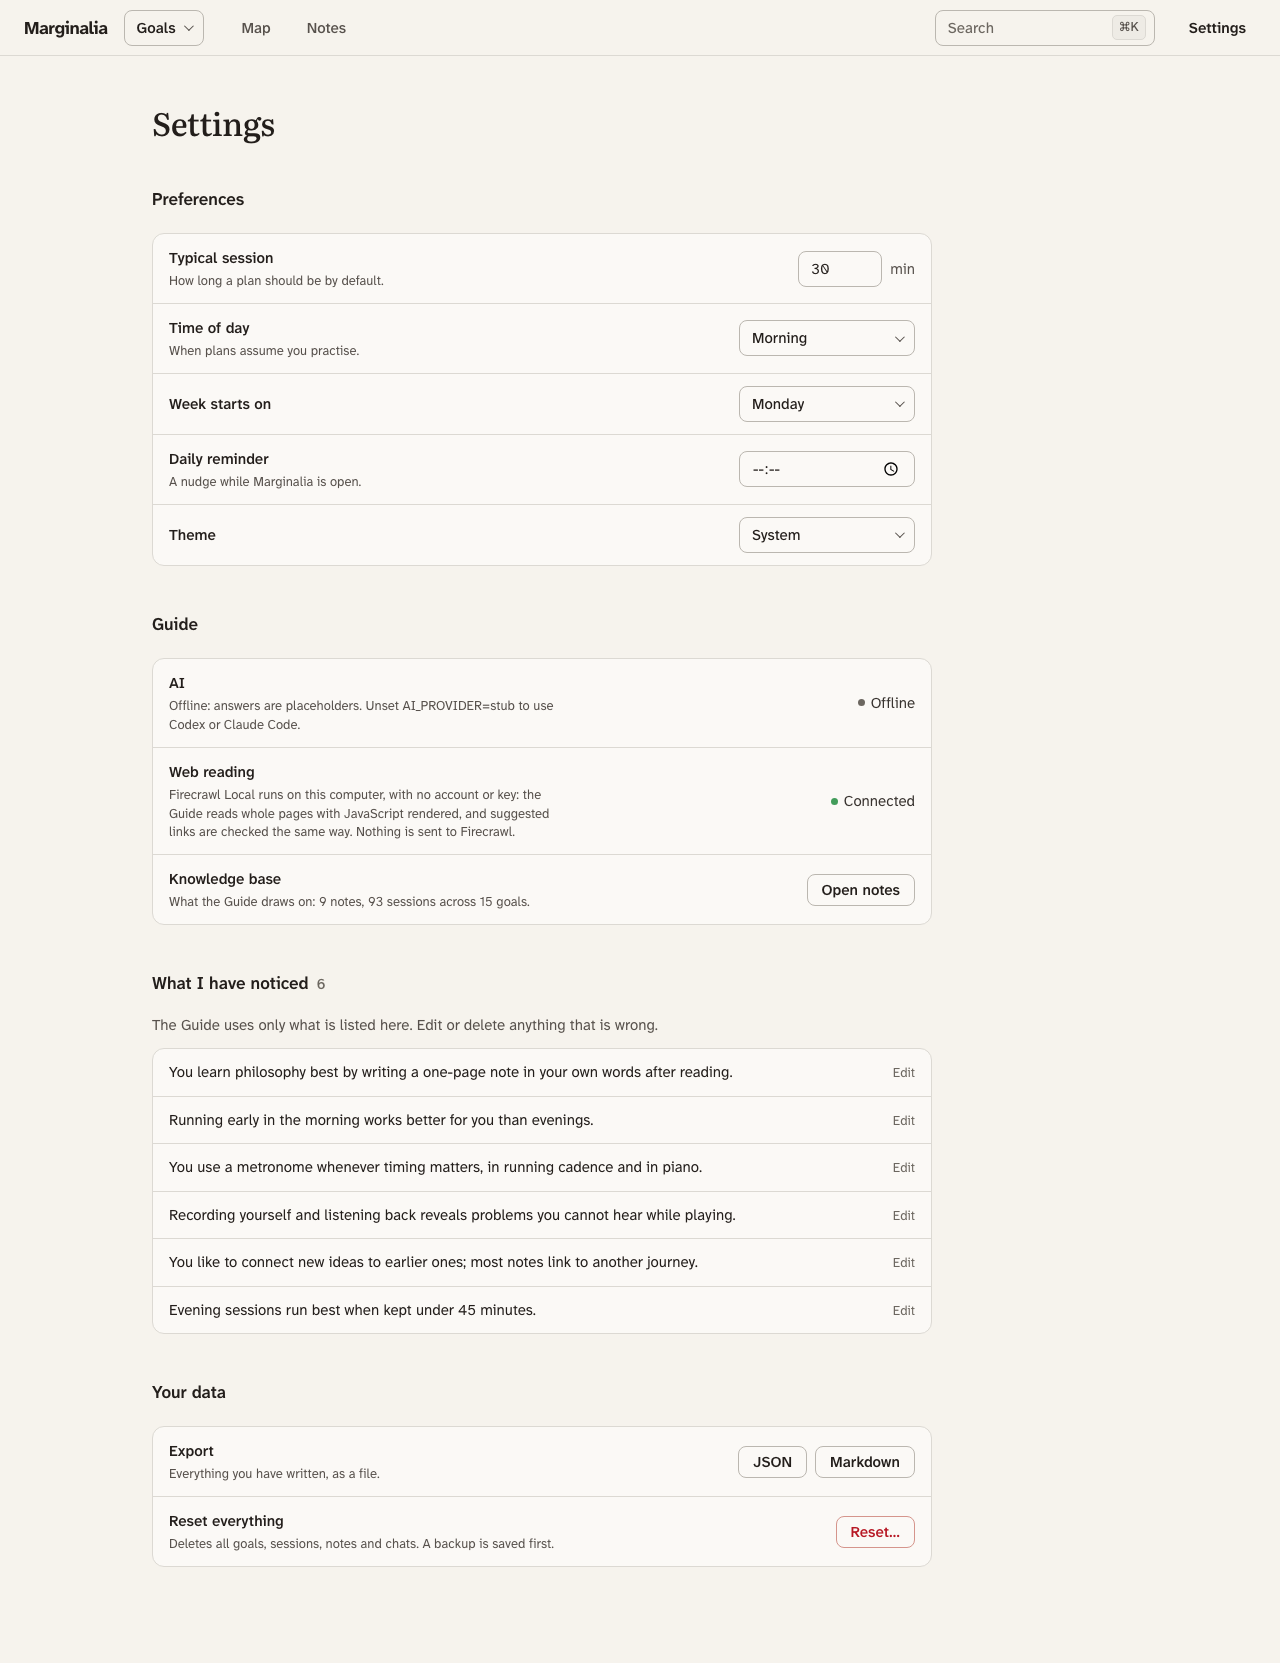
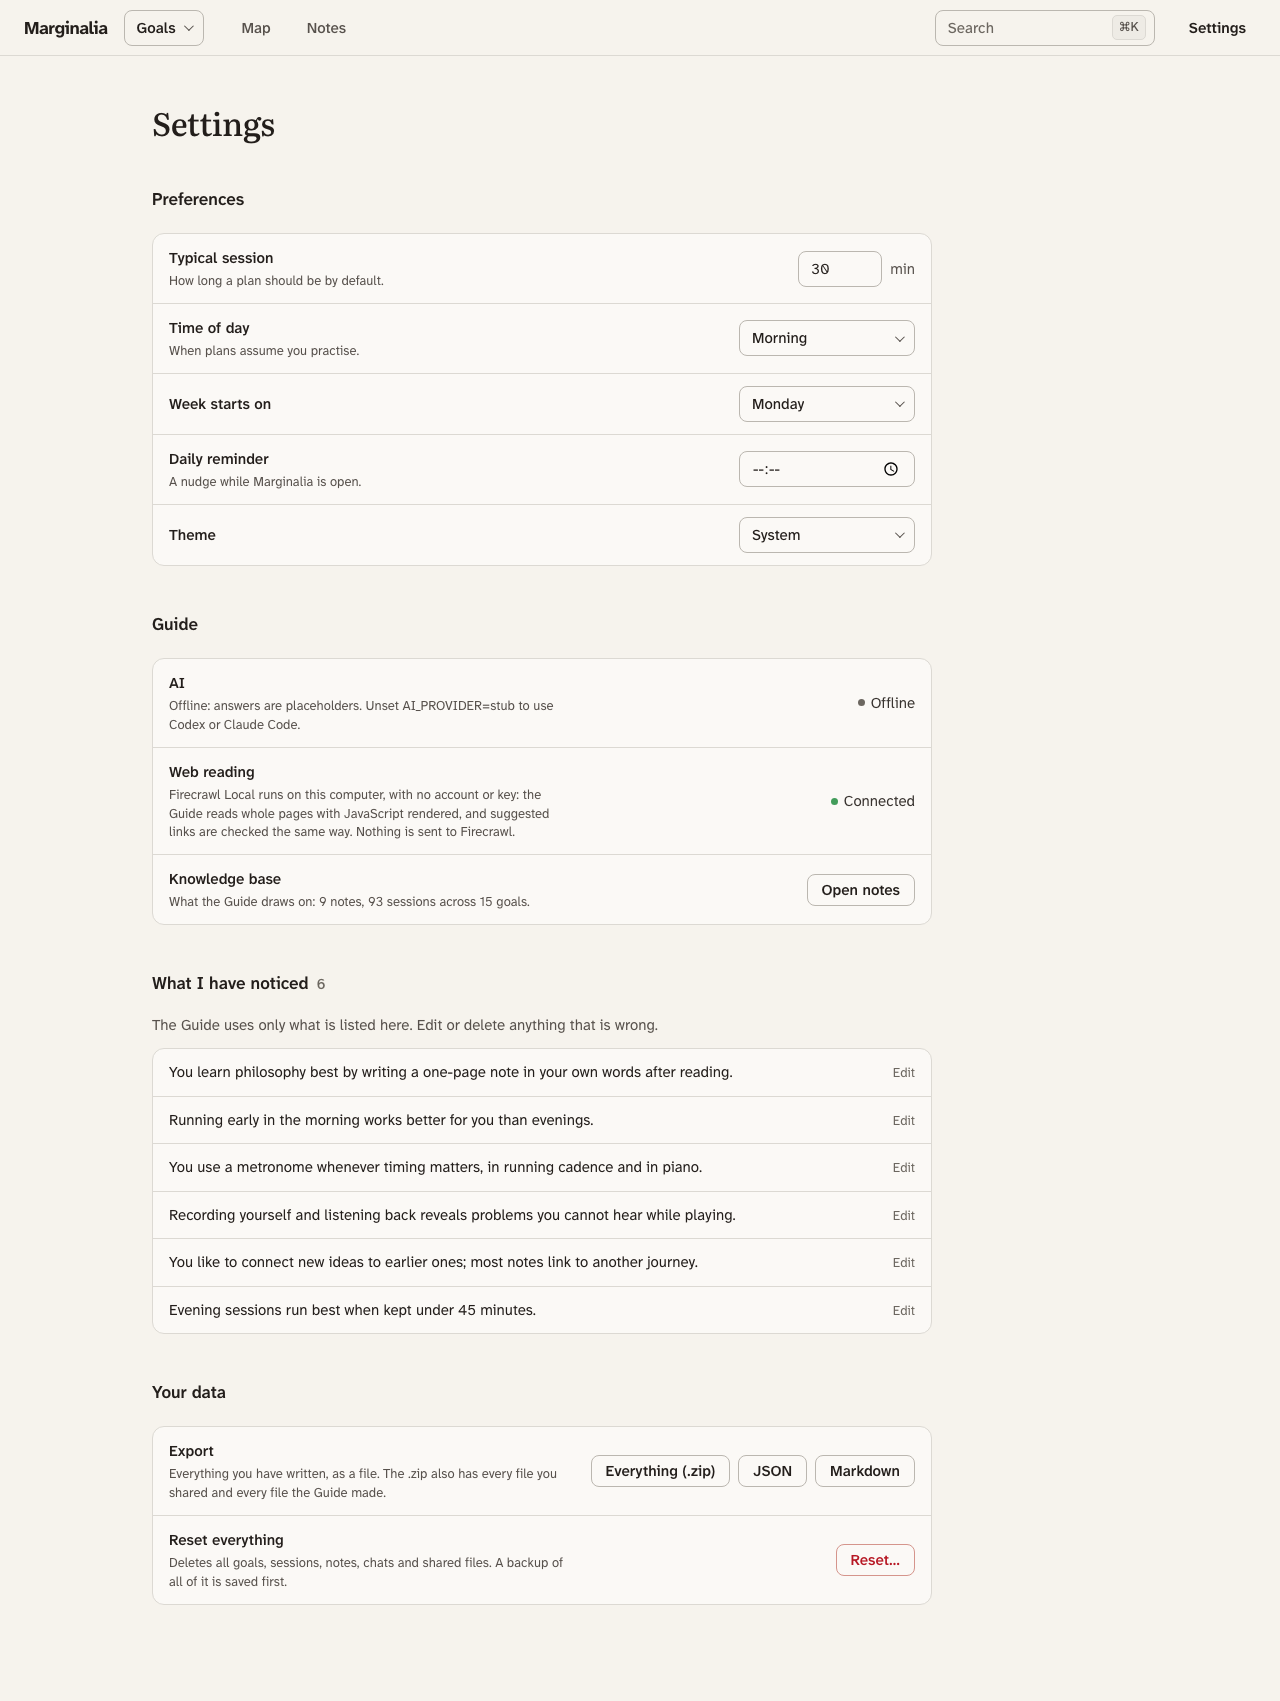
fix: your files leave with you and survive a reset; taken-back messages stay unsaid
- Settings > Export > Everything (.zip): the data plus every shared and Guide-made file, by goal (built-in deflate, no new dependency)
- Reset moves the workspaces beside the database backup instead of deleting uploads
- Messages withdrawn or still waiting are kept out of conversation.md, the Guide's recent history, search and the Files tab

diff --git a/app/you/page.tsx b/app/you/page.tsx
@@ -38,8 +38,8 @@ export default async function Settings({searchParams}: PageProps<"/you">) {
           <form action={editFact.bind(null, f.id)} className="form"><textarea name="text" defaultValue={f.text} rows={2} maxLength={500} aria-label="Fact" /><div className="actions"><button className="btn btn--sm" name="intent" value="save">Save</button><button className="btn btn--quiet btn--sm" name="intent" value="delete">Delete</button></div></form></details></li>)}</ul>}</section>
     <section><h2>Your data</h2>
       <div className="rows-s">
-        <div className="srow"><div><b>Export</b><p>Everything you have written, as a file.</p></div><div className="actions"><a className="btn btn--quiet btn--sm" href="/api/export">JSON</a><a className="btn btn--quiet btn--sm" href="/api/export?format=markdown">Markdown</a></div></div>
-        <div className="srow danger"><div><b>Reset everything</b><p>Deletes all goals, sessions, notes and chats. A backup is saved first.</p></div><Link className="btn btn--danger btn--sm" href="/you?delete=1">Reset…</Link></div>
+        <div className="srow"><div><b>Export</b><p>Everything you have written, as a file. The .zip also has every file you shared and every file the Guide made.</p></div><div className="actions"><a className="btn btn--quiet btn--sm" href="/api/export?format=zip">Everything (.zip)</a><a className="btn btn--quiet btn--sm" href="/api/export">JSON</a><a className="btn btn--quiet btn--sm" href="/api/export?format=markdown">Markdown</a></div></div>
+        <div className="srow danger"><div><b>Reset everything</b><p>Deletes all goals, sessions, notes, chats and shared files. A backup of all of it is saved first.</p></div><Link className="btn btn--danger btn--sm" href="/you?delete=1">Reset…</Link></div>
       </div></section>
     {query.delete === "1" && <ReviewSheet home="/you"><h2>Reset your whole profile?</h2><p className="prose" style={{marginBottom: 16}}>This removes every goal, session, note, chat and preference, and the agent’s workspace files. A backup of the database is saved in the <code>data</code> folder first. Export first if you also want a readable copy.</p><DeleteDataForm /></ReviewSheet>}
   </div></AppShell>;

diff --git a/lib/db/zip.ts b/lib/db/zip.ts
@@ -1,0 +1,25 @@
+// A small ZIP writer (deflate, no dependencies) for "download everything". Fine for a personal archive; not streaming.
+import {crc32, deflateRawSync} from "node:zlib";
+
+export type ZipEntry = {name: string; data: Buffer; date?: Date};
+const dosTime = (d: Date) => ((d.getHours() << 11) | (d.getMinutes() << 5) | Math.floor(d.getSeconds() / 2)) & 0xffff;
+const dosDate = (d: Date) => (((Math.max(1980, d.getFullYear()) - 1980) << 9) | ((d.getMonth() + 1) << 5) | d.getDate()) & 0xffff;
+
+export function zip(entries: ZipEntry[]): Buffer {
+  const parts: Buffer[] = [], central: Buffer[] = []; let offset = 0;
+  for (const e of entries) {
+    const name = Buffer.from(e.name.replace(/^\/+/, ""), "utf8"), packed = deflateRawSync(e.data), d = e.date ?? new Date(), crc = crc32(e.data) >>> 0;
+    const local = Buffer.alloc(30);
+    local.writeUInt32LE(0x04034b50, 0); local.writeUInt16LE(20, 4); local.writeUInt16LE(0x0800, 6); local.writeUInt16LE(8, 8);
+    local.writeUInt16LE(dosTime(d), 10); local.writeUInt16LE(dosDate(d), 12); local.writeUInt32LE(crc, 14);
+    local.writeUInt32LE(packed.length, 18); local.writeUInt32LE(e.data.length, 22); local.writeUInt16LE(name.length, 26); local.writeUInt16LE(0, 28);
+    const dir = Buffer.alloc(46);
+    dir.writeUInt32LE(0x02014b50, 0); dir.writeUInt16LE(20, 4); dir.writeUInt16LE(20, 6); dir.writeUInt16LE(0x0800, 8); dir.writeUInt16LE(8, 10);
+    dir.writeUInt16LE(dosTime(d), 12); dir.writeUInt16LE(dosDate(d), 14); dir.writeUInt32LE(crc, 16); dir.writeUInt32LE(packed.length, 20);
+    dir.writeUInt32LE(e.data.length, 24); dir.writeUInt16LE(name.length, 28); dir.writeUInt32LE(offset, 42);
+    parts.push(local, name, packed); central.push(dir, name); offset += 30 + name.length + packed.length;
+  }
+  const size = central.reduce((n, b) => n + b.length, 0), end = Buffer.alloc(22);
+  end.writeUInt32LE(0x06054b50, 0); end.writeUInt16LE(entries.length, 8); end.writeUInt16LE(entries.length, 10); end.writeUInt32LE(size, 12); end.writeUInt32LE(offset, 16);
+  return Buffer.concat([...parts, ...central, end]);
+}

diff --git a/lib/db/personal.ts b/lib/db/personal.ts
@@ -1,5 +1,5 @@
 import {dirname,join,resolve} from "node:path";
-import {rmSync} from "node:fs";
+import {existsSync,readdirSync,readFileSync,renameSync,rmSync,statSync} from "node:fs";
 import {sqlite} from "./client.ts";
 import {workspaceRoot} from "../agent/workspace.ts";
 export function preferences() {
@@ -23,5 +23,19 @@ export function clearPersonalData(){
   for(const table of personalTables())sqlite.exec(`DELETE FROM ${table}`);
  })();
 }
-/** Removes the agent's per-goal workspaces (exported context, uploads, generated files). */
-export function clearWorkspaces(){ try { rmSync(workspaceRoot(),{recursive:true,force:true}); } catch { /* nothing to remove */ } }
+/** Clears the agent's per-goal workspaces. Uploads and generated files are kept beside the database backup (`keepAs`), never just deleted. */
+export function clearWorkspaces(keepAs?:string){
+ const root=workspaceRoot(); if(!existsSync(root))return;
+ try { if(keepAs){ renameSync(root,keepAs); return; } } catch { /* another disk: fall through */ }
+ try { rmSync(root,{recursive:true,force:true}); } catch { /* nothing to remove */ }
+}
+/** Files that belong to the learner: what they shared (inbox/) and what the Guide made for them (out/). Context and job logs are derived and left out. */
+export function workspaceFiles(){
+ const root=workspaceRoot(),out:{path:string;data:Buffer;date:Date}[]=[]; if(!existsSync(root))return out;
+ const walk=(dir:string,rel:string)=>{ for(const e of readdirSync(dir,{withFileTypes:true})){ const p=join(dir,e.name),r=`${rel}/${e.name}`; if(e.isDirectory())walk(p,r); else if(e.isFile()){ const st=statSync(p); if(st.size<=50*1024*1024)out.push({path:r,data:readFileSync(p),date:st.mtime}); } } };
+ for(const goal of readdirSync(root,{withFileTypes:true}).filter(d=>d.isDirectory()).map(d=>d.name)){
+  if(existsSync(join(root,goal,"inbox")))walk(join(root,goal,"inbox"),`files/${goal}/shared`);
+  if(existsSync(join(root,goal,"out")))walk(join(root,goal,"out"),`files/${goal}/made-by-the-guide`);
+ }
+ return out;
+}

diff --git a/app/api/export/route.ts b/app/api/export/route.ts
@@ -1,12 +1,18 @@
 import {sqlite} from "@/lib/db/client";
-import {personalTables} from "@/lib/db/personal";
+import {personalTables, workspaceFiles} from "@/lib/db/personal";
+import {zip} from "@/lib/db/zip";
 
 export async function GET(request:Request) {
- const markdown=new URL(request.url).searchParams.get("format")==="markdown";
+ const format=new URL(request.url).searchParams.get("format"),markdown=format==="markdown";
  const tables=personalTables().filter(table=>table!=="notebook_search");
  const snapshot=sqlite.transaction(()=>Object.fromEntries(tables.map(table=>[table,sqlite.prepare(`SELECT * FROM ${table} ORDER BY rowid`).all() as Record<string,unknown>[]])))();
  const text=markdown?["# Marginalia",...snapshot.journey.flatMap(journey=>[
   `## ${journey.name}`, ...snapshot.log_entry.filter(entry=>entry.journey_id===journey.id).map(entry=>`### ${entry.occurred_on} · ${entry.kind}\n\n${entry.raw_text}`)]),
   ...tables.filter(table=>table!=="log_entry").map(table=>`## ${table}\n\n${snapshot[table].map(row=>JSON.stringify(row)).join("\n\n")}`)].join("\n\n"):JSON.stringify(snapshot,null,2);
+ if(format==="zip"){
+  // everything: the data as JSON, plus every file you shared and every file the Guide made, by goal
+  const body=zip([{name:"marginalia/marginalia.json",data:Buffer.from(text)},...workspaceFiles().map(f=>({name:`marginalia/${f.path}`,data:f.data,date:f.date}))]);
+  return new Response(new Uint8Array(body),{headers:{"Content-Type":"application/zip","Content-Disposition":`attachment; filename="marginalia-${new Date().toISOString().slice(0,10)}.zip"`,"Cache-Control":"no-store"}});
+ }
  return new Response(text,{headers:{"Content-Type":markdown?"text/markdown; charset=utf-8":"application/json","Content-Disposition":`attachment; filename="marginalia.${markdown?"md":"json"}"`,"Cache-Control":"no-store"}});
 }

diff --git a/lib/chat/events.ts b/lib/chat/events.ts
@@ -39,7 +39,7 @@ export function searchMessages(q: string, limit = 8): MessageHit[] {
   const words = q.toLowerCase().split(/\s+/).filter(w => w.length > 1).slice(0, 6); if (!words.length) return [];
   const body = "lower(COALESCE(json_extract(e.payload_json,'$.text'),'') || ' ' || COALESCE(json_extract(e.payload_json,'$.markdown'),'') || ' ' || COALESCE((SELECT group_concat(CASE WHEN f.type='object' THEN json_extract(f.value,'$.name') ELSE f.value END,' ') FROM json_each(e.payload_json,'$.files') f),''))";
   const rows = sqlite.prepare(`SELECT e.goal,e.seq,e.kind,e.created_at,j.name,j.hue,${body} AS b,COALESCE(NULLIF(json_extract(e.payload_json,'$.text'),''),json_extract(e.payload_json,'$.markdown'),'') || COALESCE(' · ' || (SELECT group_concat(CASE WHEN f.type='object' THEN json_extract(f.value,'$.name') ELSE f.value END,', ') FROM json_each(e.payload_json,'$.files') f),'') AS raw
-    FROM chat_event e JOIN journey j ON j.id=e.goal WHERE e.kind IN ('user','guide') AND COALESCE(json_extract(e.payload_json,'$.tone'),'')!='error' AND ${words.map(() => `${body} LIKE ? ESCAPE '\\'`).join(" AND ")}
+    FROM chat_event e JOIN journey j ON j.id=e.goal WHERE e.kind IN ('user','guide') AND e.status NOT IN ('queued','withdrawn') AND COALESCE(json_extract(e.payload_json,'$.tone'),'')!='error' AND ${words.map(() => `${body} LIKE ? ESCAPE '\\'`).join(" AND ")}
     ORDER BY e.seq DESC LIMIT ?`).all(...words.map(w => `%${w.replace(/[\\%_]/g, c => "\\" + c)}%`), limit) as {goal: string; seq: number; kind: string; created_at: string; name: string; hue: number | null; raw: string}[];
   return rows.map(r => {
     const plain = String(r.raw).replace(/[#*_`>|[\]]/g, "").replace(/\s+/g, " ").trim(), i = Math.max(0, plain.toLowerCase().indexOf(words[0]));

diff --git a/lib/agent/workspace.ts b/lib/agent/workspace.ts
@@ -141,7 +141,7 @@ type SharedFile = {name: string; stored: string; type: string; text?: string};
 const filesIn = (p: Record<string, unknown>): SharedFile[] => Array.isArray(p.files) ? p.files.map(f => typeof f === "string" ? {name: f, stored: "", type: "file"} : f as SharedFile).filter(f => f?.name) : [];
 /** The whole chat for this goal, as the learner saw it. Cards are summarised; their details live in the other files. */
 function writeConversation(goal: string, ctx: string) {
-  const rows = sqlite.prepare("SELECT kind,payload_json,created_at FROM chat_event WHERE goal=? AND kind IN ('user','guide','week','quiz','suggestions','note','plan','log') ORDER BY seq").all(goal) as Ev[];
+  const rows = sqlite.prepare("SELECT kind,payload_json,created_at FROM chat_event WHERE goal=? AND kind IN ('user','guide','week','quiz','suggestions','note','plan','log') AND status NOT IN ('queued','withdrawn') ORDER BY seq").all(goal) as Ev[];
   const line = (r: Ev) => {
     let p: Record<string, unknown> = {}; try { p = JSON.parse(r.payload_json); } catch { /* keep empty */ }
     const at = r.created_at.slice(0, 16).replace("T", " "), body = String(p.text ?? p.markdown ?? "");

diff --git a/lib/chat/files.ts b/lib/chat/files.ts
@@ -50,7 +50,7 @@ export type SharedRow = Shared & {seq: number; at: string; said: string};
 /** Every file shared in this goal's chat, newest first, with the message it came with. */
 export function sharedFiles(goal: string): SharedRow[] {
   ensureChat();
-  const rows = sqlite.prepare("SELECT seq,payload_json,created_at FROM chat_event WHERE goal=? AND kind='user' AND json_array_length(json_extract(payload_json,'$.files'))>0 ORDER BY seq DESC").all(goal) as {seq: number; payload_json: string; created_at: string}[];
+  const rows = sqlite.prepare("SELECT seq,payload_json,created_at FROM chat_event WHERE goal=? AND kind='user' AND status!='withdrawn' AND json_array_length(json_extract(payload_json,'$.files'))>0 ORDER BY seq DESC").all(goal) as {seq: number; payload_json: string; created_at: string}[];
   return rows.flatMap(r => { const p = JSON.parse(r.payload_json); return sharedFrom(p).filter(f => f.stored).map(f => ({...f, seq: r.seq, at: r.created_at, said: String(p.text ?? "")})); });
 }
 export const fileHref = (goal: string, stored: string, download = false) => `/api/files/${goal}/${encodeURIComponent(stored)}${download ? "?download" : ""}`;

diff --git a/lib/chat/route.ts b/lib/chat/route.ts
@@ -14,7 +14,7 @@ export const QUICK_TEXT: Record<Quick, string> = {plan: "What should I do today?
 
 /** The last few messages, for questions (the whole chat is in context/conversation.md). */
 export function history(goal: string) {
-  return events(goal, 24).filter(e => (e.kind === "user" || e.kind === "guide") && e.payload.text !== undefined || e.kind === "guide").slice(-8)
+  return events(goal, 24).filter(e => e.status !== "queued" && e.status !== "withdrawn").filter(e => (e.kind === "user" || e.kind === "guide") && e.payload.text !== undefined || e.kind === "guide").slice(-8)
     .map(e => ({role: e.kind === "user" ? "user" as const : "guide" as const, text: String(e.payload.text ?? e.payload.markdown ?? "").slice(0, 1500)}));
 }
 export function agent(goal: string, kind: Parameters<typeof startJob>[1], input: Parameters<typeof startJob>[2]) {

diff --git a/app/you/actions.ts b/app/you/actions.ts
@@ -16,9 +16,9 @@ export async function editFact(id:string,data:FormData) {
 }
 export async function deleteData(data:FormData) {
  if(data.get("confirmation")!=="DELETE")throw Error("Type DELETE to confirm.");
- backupBeforeReset();
+ const backup=backupBeforeReset();
  clearPersonalData();
- clearWorkspaces();
+ clearWorkspaces(backup.replace(/\.db$/,"-files"));
  revalidatePath("/","layout");
 }
 export async function chooseAi(data:FormData) {
